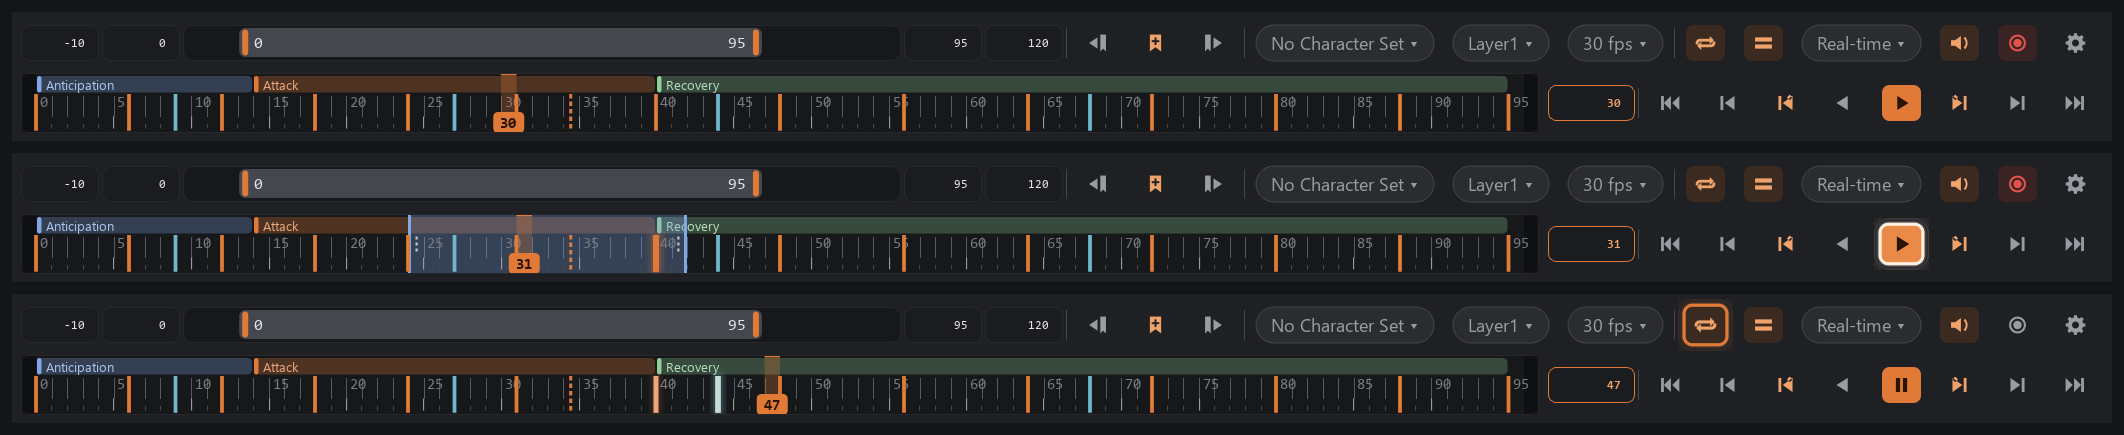
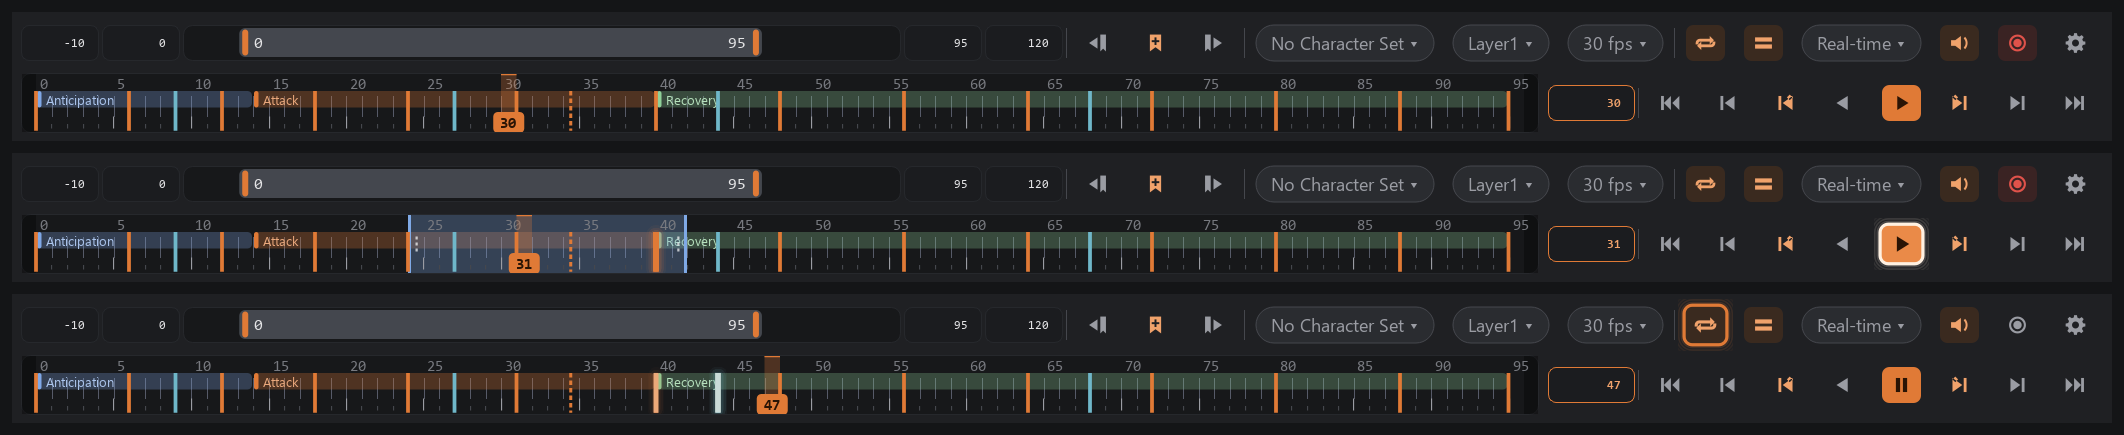
tweak(timebar): frame numbers at the very top, the bookmarks band under them

Changed region(s): [[0.0, 0.1494, 0.7147, 0.269], [0.0, 0.4782, 0.7147, 0.5977], [0.0, 0.8069, 0.7147, 0.8966]]

diff --git a/SkeldarAnim/maya_timebar/bar.py b/SkeldarAnim/maya_timebar/bar.py
@@ -34,6 +34,7 @@ KEY_LIFT = 0.6          # a key grows 60 % (under the mouse or reached)
 PAD = 10                # logical px either side of the timeline's frames
 TIMELINE_H = 40         # logical px: the bookmarks band, the keys, the ruler
 BAND_H = 11             # the bookmarks band, its name inside
+LABEL_H = 11            # the frame numbers' row at the very top, the band under it (2026-10-17)
 KEY_Y = 21              # the keys' centre
 KEY_W = 2.5             # a key's mark, logical px wide (2026-10-17: a line, as Maya's)
 DASH_W = 0.8            # a key between frames: its dashes this share of a mark's width
@@ -43,7 +44,7 @@ HEAD_FILL = 70          # the playhead's cell, its fill's alpha
 
 def key_span(h, ui):
     """(top, bottom) of a key's mark: under the bookmarks band to the bottom."""
-    return (BAND_H + 3) * ui, h - 1.5 * ui
+    return (LABEL_H + 1) * ui, h - 1.5 * ui
 
 REC = "#e0524a"
 BREAKDOWN = "#6fb7c9"
@@ -660,7 +661,7 @@ def classes():
                 if x1 < 0 or x0 > w:
                     continue
                 c = QtGui.QColor.fromRgbF(*[max(0.0, min(1.0, float(v))) for v in rgb])
-                band = QtCore.QRectF(x0 + 1, 2 * ui, max(2.0, x1 - x0 - 2), BAND_H * ui)
+                band = QtCore.QRectF(x0 + 1, (LABEL_H + 1) * ui, max(2.0, x1 - x0 - 2), BAND_H * ui)
                 c.setAlpha(70)
                 p.setPen(Qt.NoPen)
                 p.setBrush(c)
@@ -700,7 +701,7 @@ def classes():
             #  as Maya's slider (2026-10-17): the ticks stand at the bottom, a frame's
             #  number at the top under the bookmarks band; the playhead's own number
             #  is at the bottom
-            ry = (BAND_H + 2) * ui
+            ry = 1 * ui                                   # the numbers at the very top
             tick_y = h - 3 * ui
             major, minor = colour(tk["muted"]), colour(tk["line"])
             label_pen = colour(tk["faint"])
